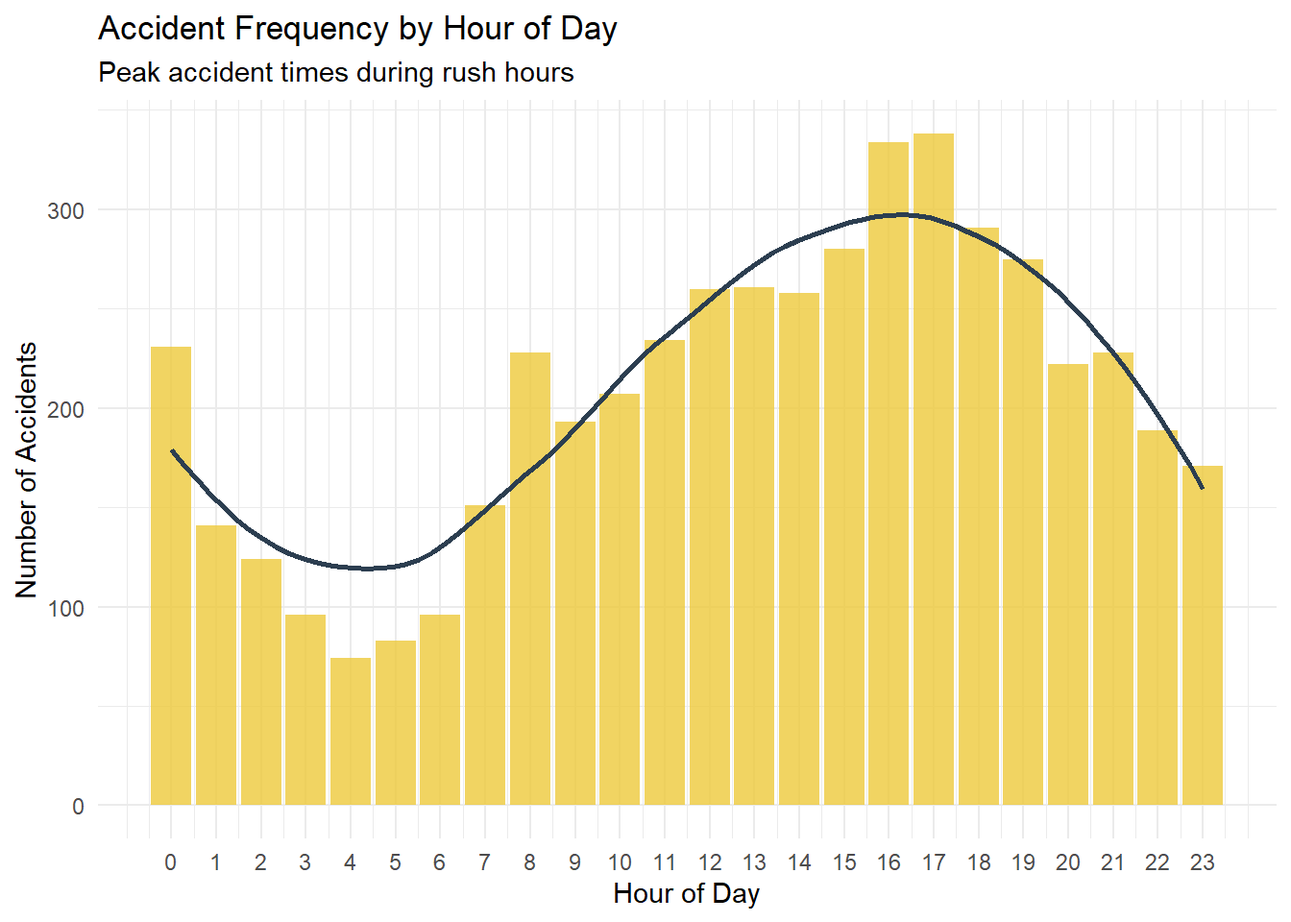
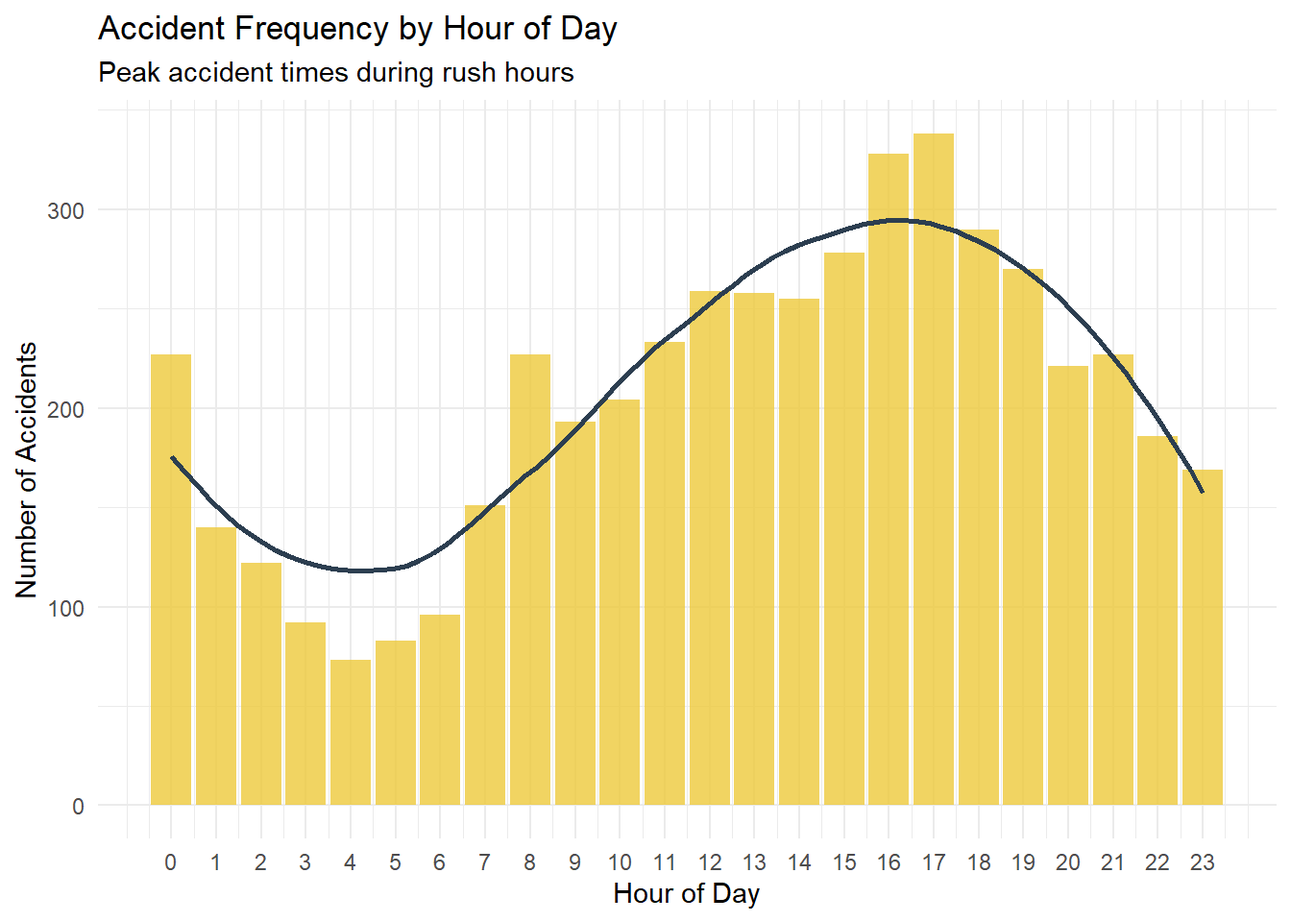
final changes fixes

diff --git a/Final.html b/Final.html
@@ -116,8 +116,8 @@ pre > code.sourceCode > span > a:first-child::before { text-decoration: underlin
 </section>
 <section id="import-data-and-processing" class="level2">
 <h2 class="anchored" data-anchor-id="import-data-and-processing">Import data and processing</h2>
-<section id="import-july-2025-taxi-data" class="level3">
-<h3 class="anchored" data-anchor-id="import-july-2025-taxi-data">Import July 2025 taxi data</h3>
+<section id="import-july-2024-taxi-data" class="level3">
+<h3 class="anchored" data-anchor-id="import-july-2024-taxi-data">Import July 2024 taxi data</h3>
 <div class="cell">
 <div class="code-copy-outer-scaffold"><div class="sourceCode cell-code" id="cb1"><pre class="sourceCode r code-with-copy"><code class="sourceCode r"><span id="cb1-1"><a href="#cb1-1" aria-hidden="true" tabindex="-1"></a>taxi_url <span class="ot">&lt;-</span> <span class="st">"https://d37ci6vzurychx.cloudfront.net/trip-data/yellow_tripdata_2024-07.parquet"</span></span>
 <span id="cb1-2"><a href="#cb1-2" aria-hidden="true" tabindex="-1"></a></span>
@@ -289,9 +289,9 @@ Weather Data Import Summary:</code></pre>
 <pre><code>Date range: 2024-07-01 to 2024-07-31 </code></pre>
 </div>
 <div class="code-copy-outer-scaffold"><div class="sourceCode cell-code" id="cb25"><pre class="sourceCode r code-with-copy"><code class="sourceCode r"><span id="cb25-1"><a href="#cb25-1" aria-hidden="true" tabindex="-1"></a><span class="fu">cat</span>(<span class="st">"Temperature range:"</span>, <span class="fu">round</span>(<span class="fu">min</span>(weather_data<span class="sc">$</span>temperature, <span class="at">na.rm =</span> <span class="cn">TRUE</span>), <span class="dv">1</span>), </span>
-<span id="cb25-2"><a href="#cb25-2" aria-hidden="true" tabindex="-1"></a>    <span class="st">"to"</span>, <span class="fu">round</span>(<span class="fu">max</span>(weather_data<span class="sc">$</span>temperature, <span class="at">na.rm =</span> <span class="cn">TRUE</span>), <span class="dv">1</span>), <span class="st">"°C</span><span class="sc">\n</span><span class="st">"</span>)</span></code></pre></div><button title="Copy to Clipboard" class="code-copy-button"><i class="bi"></i></button></div>
+<span id="cb25-2"><a href="#cb25-2" aria-hidden="true" tabindex="-1"></a>    <span class="st">"to"</span>, <span class="fu">round</span>(<span class="fu">max</span>(weather_data<span class="sc">$</span>temperature, <span class="at">na.rm =</span> <span class="cn">TRUE</span>), <span class="dv">1</span>), <span class="st">"Celcius</span><span class="sc">\n</span><span class="st">"</span>)</span></code></pre></div><button title="Copy to Clipboard" class="code-copy-button"><i class="bi"></i></button></div>
 <div class="cell-output cell-output-stdout">
-<pre><code>Temperature range: 16.3 to 34.5 °C</code></pre>
+<pre><code>Temperature range: 16.3 to 34.5 Celcius</code></pre>
 </div>
 <div class="code-copy-outer-scaffold"><div class="sourceCode cell-code" id="cb27"><pre class="sourceCode r code-with-copy"><code class="sourceCode r"><span id="cb27-1"><a href="#cb27-1" aria-hidden="true" tabindex="-1"></a><span class="fu">cat</span>(<span class="st">"Days with precipitation:"</span>, <span class="fu">sum</span>(weather_data<span class="sc">$</span>precipitation <span class="sc">&gt;</span> <span class="dv">0</span>, <span class="at">na.rm =</span> <span class="cn">TRUE</span>), <span class="st">"</span><span class="sc">\n\n</span><span class="st">"</span>)</span></code></pre></div><button title="Copy to Clipboard" class="code-copy-button"><i class="bi"></i></button></div>
 <div class="cell-output cell-output-stdout">
@@ -347,7 +347,7 @@ Weather Data Import Summary:</code></pre>
 <span id="cb33-26"><a href="#cb33-26" aria-hidden="true" tabindex="-1"></a>total_amount <span class="sc">&gt;</span> <span class="dv">0</span></span>
 <span id="cb33-27"><a href="#cb33-27" aria-hidden="true" tabindex="-1"></a>) <span class="sc">%&gt;%</span></span>
 <span id="cb33-28"><a href="#cb33-28" aria-hidden="true" tabindex="-1"></a></span>
-<span id="cb33-29"><a href="#cb33-29" aria-hidden="true" tabindex="-1"></a><span class="co"># Remove duplicates (just in case)</span></span>
+<span id="cb33-29"><a href="#cb33-29" aria-hidden="true" tabindex="-1"></a><span class="co"># Remove duplicates</span></span>
 <span id="cb33-30"><a href="#cb33-30" aria-hidden="true" tabindex="-1"></a></span>
 <span id="cb33-31"><a href="#cb33-31" aria-hidden="true" tabindex="-1"></a><span class="fu">distinct</span>()</span>
 <span id="cb33-32"><a href="#cb33-32" aria-hidden="true" tabindex="-1"></a></span>
@@ -373,51 +373,39 @@ Weather Data Import Summary:</code></pre>
 <pre><code>Cleaning collision data...</code></pre>
 </div>
 <div class="code-copy-outer-scaffold"><div class="sourceCode cell-code" id="cb41"><pre class="sourceCode r code-with-copy"><code class="sourceCode r"><span id="cb41-1"><a href="#cb41-1" aria-hidden="true" tabindex="-1"></a>collision_clean <span class="ot">&lt;-</span> collision_data_jan <span class="sc">%&gt;%</span></span>
-<span id="cb41-2"><a href="#cb41-2" aria-hidden="true" tabindex="-1"></a></span>
-<span id="cb41-3"><a href="#cb41-3" aria-hidden="true" tabindex="-1"></a><span class="co"># Keep only relevant columns</span></span>
-<span id="cb41-4"><a href="#cb41-4" aria-hidden="true" tabindex="-1"></a></span>
-<span id="cb41-5"><a href="#cb41-5" aria-hidden="true" tabindex="-1"></a><span class="fu">select</span>(</span>
-<span id="cb41-6"><a href="#cb41-6" aria-hidden="true" tabindex="-1"></a>date, crash_time, borough, zip_code,</span>
-<span id="cb41-7"><a href="#cb41-7" aria-hidden="true" tabindex="-1"></a>on_street_name, cross_street_name,</span>
-<span id="cb41-8"><a href="#cb41-8" aria-hidden="true" tabindex="-1"></a>number_of_persons_injured, number_of_persons_killed,</span>
-<span id="cb41-9"><a href="#cb41-9" aria-hidden="true" tabindex="-1"></a>latitude, longitude</span>
-<span id="cb41-10"><a href="#cb41-10" aria-hidden="true" tabindex="-1"></a>) <span class="sc">%&gt;%</span></span>
-<span id="cb41-11"><a href="#cb41-11" aria-hidden="true" tabindex="-1"></a></span>
-<span id="cb41-12"><a href="#cb41-12" aria-hidden="true" tabindex="-1"></a><span class="co"># Remove invalid or incomplete records</span></span>
-<span id="cb41-13"><a href="#cb41-13" aria-hidden="true" tabindex="-1"></a></span>
-<span id="cb41-14"><a href="#cb41-14" aria-hidden="true" tabindex="-1"></a><span class="fu">filter</span>(</span>
-<span id="cb41-15"><a href="#cb41-15" aria-hidden="true" tabindex="-1"></a><span class="sc">!</span><span class="fu">is.na</span>(date),</span>
-<span id="cb41-16"><a href="#cb41-16" aria-hidden="true" tabindex="-1"></a><span class="sc">!</span><span class="fu">is.na</span>(crash_time),</span>
-<span id="cb41-17"><a href="#cb41-17" aria-hidden="true" tabindex="-1"></a><span class="sc">!</span><span class="fu">is.na</span>(latitude),</span>
-<span id="cb41-18"><a href="#cb41-18" aria-hidden="true" tabindex="-1"></a><span class="sc">!</span><span class="fu">is.na</span>(longitude),</span>
-<span id="cb41-19"><a href="#cb41-19" aria-hidden="true" tabindex="-1"></a>latitude <span class="sc">!=</span> <span class="dv">0</span> <span class="sc">&amp;</span> longitude <span class="sc">!=</span> <span class="dv">0</span></span>
-<span id="cb41-20"><a href="#cb41-20" aria-hidden="true" tabindex="-1"></a>) <span class="sc">%&gt;%</span></span>
-<span id="cb41-21"><a href="#cb41-21" aria-hidden="true" tabindex="-1"></a></span>
-<span id="cb41-22"><a href="#cb41-22" aria-hidden="true" tabindex="-1"></a><span class="co"># Clean up borough names</span></span>
+<span id="cb41-2"><a href="#cb41-2" aria-hidden="true" tabindex="-1"></a>  <span class="fu">select</span>(</span>
+<span id="cb41-3"><a href="#cb41-3" aria-hidden="true" tabindex="-1"></a>    date, crash_time, borough, zip_code,</span>
+<span id="cb41-4"><a href="#cb41-4" aria-hidden="true" tabindex="-1"></a>    on_street_name, cross_street_name,</span>
+<span id="cb41-5"><a href="#cb41-5" aria-hidden="true" tabindex="-1"></a>    number_of_persons_injured, number_of_persons_killed,</span>
+<span id="cb41-6"><a href="#cb41-6" aria-hidden="true" tabindex="-1"></a>    latitude, longitude</span>
+<span id="cb41-7"><a href="#cb41-7" aria-hidden="true" tabindex="-1"></a>  ) <span class="sc">%&gt;%</span></span>
+<span id="cb41-8"><a href="#cb41-8" aria-hidden="true" tabindex="-1"></a>  <span class="fu">filter</span>(</span>
+<span id="cb41-9"><a href="#cb41-9" aria-hidden="true" tabindex="-1"></a>    <span class="sc">!</span><span class="fu">is.na</span>(date),</span>
+<span id="cb41-10"><a href="#cb41-10" aria-hidden="true" tabindex="-1"></a>    <span class="sc">!</span><span class="fu">is.na</span>(crash_time),</span>
+<span id="cb41-11"><a href="#cb41-11" aria-hidden="true" tabindex="-1"></a>    <span class="sc">!</span><span class="fu">is.na</span>(latitude),</span>
+<span id="cb41-12"><a href="#cb41-12" aria-hidden="true" tabindex="-1"></a>    <span class="sc">!</span><span class="fu">is.na</span>(longitude),</span>
+<span id="cb41-13"><a href="#cb41-13" aria-hidden="true" tabindex="-1"></a>    latitude <span class="sc">!=</span> <span class="dv">0</span> <span class="sc">&amp;</span> longitude <span class="sc">!=</span> <span class="dv">0</span></span>
+<span id="cb41-14"><a href="#cb41-14" aria-hidden="true" tabindex="-1"></a>  ) <span class="sc">%&gt;%</span></span>
+<span id="cb41-15"><a href="#cb41-15" aria-hidden="true" tabindex="-1"></a>  <span class="fu">mutate</span>(</span>
+<span id="cb41-16"><a href="#cb41-16" aria-hidden="true" tabindex="-1"></a>    <span class="at">borough =</span> <span class="fu">str_to_title</span>(<span class="fu">trimws</span>(borough)),</span>
+<span id="cb41-17"><a href="#cb41-17" aria-hidden="true" tabindex="-1"></a>    <span class="at">number_of_persons_injured =</span> <span class="fu">coalesce</span>(number_of_persons_injured, <span class="dv">0</span>),</span>
+<span id="cb41-18"><a href="#cb41-18" aria-hidden="true" tabindex="-1"></a>    <span class="at">number_of_persons_killed =</span> <span class="fu">coalesce</span>(number_of_persons_killed, <span class="dv">0</span>),</span>
+<span id="cb41-19"><a href="#cb41-19" aria-hidden="true" tabindex="-1"></a>    <span class="at">hour =</span> <span class="fu">hour</span>(crash_time)</span>
+<span id="cb41-20"><a href="#cb41-20" aria-hidden="true" tabindex="-1"></a>  ) <span class="sc">%&gt;%</span></span>
+<span id="cb41-21"><a href="#cb41-21" aria-hidden="true" tabindex="-1"></a>  <span class="fu">drop_na</span>(borough) <span class="sc">%&gt;%</span></span>
+<span id="cb41-22"><a href="#cb41-22" aria-hidden="true" tabindex="-1"></a>  <span class="fu">distinct</span>()</span>
 <span id="cb41-23"><a href="#cb41-23" aria-hidden="true" tabindex="-1"></a></span>
-<span id="cb41-24"><a href="#cb41-24" aria-hidden="true" tabindex="-1"></a><span class="fu">mutate</span>(</span>
-<span id="cb41-25"><a href="#cb41-25" aria-hidden="true" tabindex="-1"></a><span class="at">borough =</span> <span class="fu">str_to_title</span>(<span class="fu">trimws</span>(borough)),</span>
-<span id="cb41-26"><a href="#cb41-26" aria-hidden="true" tabindex="-1"></a><span class="at">number_of_persons_injured =</span> <span class="fu">coalesce</span>(number_of_persons_injured, <span class="dv">0</span>),</span>
-<span id="cb41-27"><a href="#cb41-27" aria-hidden="true" tabindex="-1"></a><span class="at">number_of_persons_killed =</span> <span class="fu">coalesce</span>(number_of_persons_killed, <span class="dv">0</span>),</span>
-<span id="cb41-28"><a href="#cb41-28" aria-hidden="true" tabindex="-1"></a><span class="at">hour =</span> <span class="fu">hour</span>(crash_time)</span>
-<span id="cb41-29"><a href="#cb41-29" aria-hidden="true" tabindex="-1"></a>) <span class="sc">%&gt;%</span></span>
-<span id="cb41-30"><a href="#cb41-30" aria-hidden="true" tabindex="-1"></a>  <span class="fu">drop_na</span>(borough) <span class="sc">%&gt;%</span></span>
-<span id="cb41-31"><a href="#cb41-31" aria-hidden="true" tabindex="-1"></a><span class="fu">distinct</span>()</span>
-<span id="cb41-32"><a href="#cb41-32" aria-hidden="true" tabindex="-1"></a></span>
-<span id="cb41-33"><a href="#cb41-33" aria-hidden="true" tabindex="-1"></a>collision_clean <span class="ot">&lt;-</span> collision_data_jan <span class="sc">%&gt;%</span></span>
-<span id="cb41-34"><a href="#cb41-34" aria-hidden="true" tabindex="-1"></a>  <span class="fu">drop_na</span>(borough, crash_time, number_of_persons_injured)</span>
-<span id="cb41-35"><a href="#cb41-35" aria-hidden="true" tabindex="-1"></a></span>
-<span id="cb41-36"><a href="#cb41-36" aria-hidden="true" tabindex="-1"></a><span class="fu">cat</span>(<span class="st">"Collision data cleaned successfully!</span><span class="sc">\n</span><span class="st">"</span>)</span></code></pre></div><button title="Copy to Clipboard" class="code-copy-button"><i class="bi"></i></button></div>
+<span id="cb41-24"><a href="#cb41-24" aria-hidden="true" tabindex="-1"></a><span class="fu">cat</span>(<span class="st">"Collision data cleaned successfully!</span><span class="sc">\n</span><span class="st">"</span>)</span></code></pre></div><button title="Copy to Clipboard" class="code-copy-button"><i class="bi"></i></button></div>
 <div class="cell-output cell-output-stdout">
 <pre><code>Collision data cleaned successfully!</code></pre>
 </div>
 <div class="code-copy-outer-scaffold"><div class="sourceCode cell-code" id="cb43"><pre class="sourceCode r code-with-copy"><code class="sourceCode r"><span id="cb43-1"><a href="#cb43-1" aria-hidden="true" tabindex="-1"></a><span class="fu">cat</span>(<span class="st">"Records after cleaning:"</span>, <span class="fu">nrow</span>(collision_clean), <span class="st">"</span><span class="sc">\n</span><span class="st">"</span>)</span></code></pre></div><button title="Copy to Clipboard" class="code-copy-button"><i class="bi"></i></button></div>
 <div class="cell-output cell-output-stdout">
-<pre><code>Records after cleaning: 4965 </code></pre>
+<pre><code>Records after cleaning: 4920 </code></pre>
 </div>
 <div class="code-copy-outer-scaffold"><div class="sourceCode cell-code" id="cb45"><pre class="sourceCode r code-with-copy"><code class="sourceCode r"><span id="cb45-1"><a href="#cb45-1" aria-hidden="true" tabindex="-1"></a><span class="fu">cat</span>(<span class="st">"Unique boroughs:"</span>, <span class="fu">paste</span>(<span class="fu">unique</span>(collision_clean<span class="sc">$</span>borough), <span class="at">collapse =</span> <span class="st">", "</span>), <span class="st">"</span><span class="sc">\n\n</span><span class="st">"</span>)</span></code></pre></div><button title="Copy to Clipboard" class="code-copy-button"><i class="bi"></i></button></div>
 <div class="cell-output cell-output-stdout">
-<pre><code>Unique boroughs: BROOKLYN, STATEN ISLAND, QUEENS, MANHATTAN, BRONX </code></pre>
+<pre><code>Unique boroughs: Staten Island, Brooklyn, Queens, Manhattan, Bronx </code></pre>
 </div>
 </div>
 </section>
@@ -429,26 +417,17 @@ Weather Data Import Summary:</code></pre>
 <pre><code>Cleaning weather data...</code></pre>
 </div>
 <div class="code-copy-outer-scaffold"><div class="sourceCode cell-code" id="cb49"><pre class="sourceCode r code-with-copy"><code class="sourceCode r"><span id="cb49-1"><a href="#cb49-1" aria-hidden="true" tabindex="-1"></a>weather_clean <span class="ot">&lt;-</span> weather_data <span class="sc">%&gt;%</span></span>
-<span id="cb49-2"><a href="#cb49-2" aria-hidden="true" tabindex="-1"></a></span>
-<span id="cb49-3"><a href="#cb49-3" aria-hidden="true" tabindex="-1"></a><span class="co"># Remove missing or nonsensical readings</span></span>
-<span id="cb49-4"><a href="#cb49-4" aria-hidden="true" tabindex="-1"></a></span>
-<span id="cb49-5"><a href="#cb49-5" aria-hidden="true" tabindex="-1"></a><span class="fu">filter</span>(<span class="sc">!</span><span class="fu">is.na</span>(datetime), <span class="sc">!</span><span class="fu">is.na</span>(temperature)) <span class="sc">%&gt;%</span></span>
-<span id="cb49-6"><a href="#cb49-6" aria-hidden="true" tabindex="-1"></a><span class="fu">filter</span>(temperature <span class="sc">&gt;</span> <span class="sc">-</span><span class="dv">30</span> <span class="sc">&amp;</span> temperature <span class="sc">&lt;</span> <span class="dv">50</span>) <span class="sc">%&gt;%</span>  <span class="co"># reasonable NYC range</span></span>
-<span id="cb49-7"><a href="#cb49-7" aria-hidden="true" tabindex="-1"></a><span class="fu">mutate</span>(</span>
-<span id="cb49-8"><a href="#cb49-8" aria-hidden="true" tabindex="-1"></a><span class="at">weather_date =</span> <span class="fu">as.Date</span>(datetime),</span>
-<span id="cb49-9"><a href="#cb49-9" aria-hidden="true" tabindex="-1"></a><span class="at">weather_hour =</span> <span class="fu">hour</span>(datetime),</span>
-<span id="cb49-10"><a href="#cb49-10" aria-hidden="true" tabindex="-1"></a><span class="at">precipitation =</span> <span class="fu">ifelse</span>(<span class="fu">is.na</span>(precipitation), <span class="dv">0</span>, precipitation),</span>
-<span id="cb49-11"><a href="#cb49-11" aria-hidden="true" tabindex="-1"></a><span class="at">rain =</span> <span class="fu">ifelse</span>(<span class="fu">is.na</span>(rain), <span class="dv">0</span>, rain)</span>
-<span id="cb49-12"><a href="#cb49-12" aria-hidden="true" tabindex="-1"></a>) <span class="sc">%&gt;%</span></span>
-<span id="cb49-13"><a href="#cb49-13" aria-hidden="true" tabindex="-1"></a></span>
-<span id="cb49-14"><a href="#cb49-14" aria-hidden="true" tabindex="-1"></a><span class="co"># Deduplicate hourly records</span></span>
-<span id="cb49-15"><a href="#cb49-15" aria-hidden="true" tabindex="-1"></a></span>
-<span id="cb49-16"><a href="#cb49-16" aria-hidden="true" tabindex="-1"></a><span class="fu">distinct</span>(weather_date, weather_hour, <span class="at">.keep_all =</span> <span class="cn">TRUE</span>)</span>
-<span id="cb49-17"><a href="#cb49-17" aria-hidden="true" tabindex="-1"></a></span>
-<span id="cb49-18"><a href="#cb49-18" aria-hidden="true" tabindex="-1"></a>wether_clean <span class="ot">&lt;-</span> weather_data <span class="sc">%&gt;%</span></span>
-<span id="cb49-19"><a href="#cb49-19" aria-hidden="true" tabindex="-1"></a>  <span class="fu">drop_na</span>(datetime, temperature, precipitation)</span>
-<span id="cb49-20"><a href="#cb49-20" aria-hidden="true" tabindex="-1"></a></span>
-<span id="cb49-21"><a href="#cb49-21" aria-hidden="true" tabindex="-1"></a><span class="fu">cat</span>(<span class="st">"Weather data cleaned successfully!</span><span class="sc">\n</span><span class="st">"</span>)</span></code></pre></div><button title="Copy to Clipboard" class="code-copy-button"><i class="bi"></i></button></div>
+<span id="cb49-2"><a href="#cb49-2" aria-hidden="true" tabindex="-1"></a>  <span class="fu">filter</span>(<span class="sc">!</span><span class="fu">is.na</span>(datetime), <span class="sc">!</span><span class="fu">is.na</span>(temperature)) <span class="sc">%&gt;%</span></span>
+<span id="cb49-3"><a href="#cb49-3" aria-hidden="true" tabindex="-1"></a>  <span class="fu">filter</span>(temperature <span class="sc">&gt;</span> <span class="sc">-</span><span class="dv">30</span> <span class="sc">&amp;</span> temperature <span class="sc">&lt;</span> <span class="dv">50</span>) <span class="sc">%&gt;%</span></span>
+<span id="cb49-4"><a href="#cb49-4" aria-hidden="true" tabindex="-1"></a>  <span class="fu">mutate</span>(</span>
+<span id="cb49-5"><a href="#cb49-5" aria-hidden="true" tabindex="-1"></a>    <span class="at">weather_date =</span> <span class="fu">as.Date</span>(datetime),</span>
+<span id="cb49-6"><a href="#cb49-6" aria-hidden="true" tabindex="-1"></a>    <span class="at">weather_hour =</span> <span class="fu">hour</span>(datetime),</span>
+<span id="cb49-7"><a href="#cb49-7" aria-hidden="true" tabindex="-1"></a>    <span class="at">precipitation =</span> <span class="fu">coalesce</span>(precipitation, <span class="dv">0</span>),</span>
+<span id="cb49-8"><a href="#cb49-8" aria-hidden="true" tabindex="-1"></a>    <span class="at">rain =</span> <span class="fu">coalesce</span>(rain, <span class="dv">0</span>)</span>
+<span id="cb49-9"><a href="#cb49-9" aria-hidden="true" tabindex="-1"></a>  ) <span class="sc">%&gt;%</span></span>
+<span id="cb49-10"><a href="#cb49-10" aria-hidden="true" tabindex="-1"></a>  <span class="fu">distinct</span>(weather_date, weather_hour, <span class="at">.keep_all =</span> <span class="cn">TRUE</span>)</span>
+<span id="cb49-11"><a href="#cb49-11" aria-hidden="true" tabindex="-1"></a></span>
+<span id="cb49-12"><a href="#cb49-12" aria-hidden="true" tabindex="-1"></a><span class="fu">cat</span>(<span class="st">"Weather data cleaned successfully!</span><span class="sc">\n</span><span class="st">"</span>)</span></code></pre></div><button title="Copy to Clipboard" class="code-copy-button"><i class="bi"></i></button></div>
 <div class="cell-output cell-output-stdout">
 <pre><code>Weather data cleaned successfully!</code></pre>
 </div>
@@ -457,8 +436,8 @@ Weather Data Import Summary:</code></pre>
 <pre><code>Records after cleaning: 744 </code></pre>
 </div>
 <div class="code-copy-outer-scaffold"><div class="sourceCode cell-code" id="cb53"><pre class="sourceCode r code-with-copy"><code class="sourceCode r"><span id="cb53-1"><a href="#cb53-1" aria-hidden="true" tabindex="-1"></a><span class="fu">cat</span>(<span class="st">"Temperature range:"</span>,</span>
-<span id="cb53-2"><a href="#cb53-2" aria-hidden="true" tabindex="-1"></a><span class="fu">round</span>(<span class="fu">min</span>(weather_clean<span class="sc">$</span>temperature, <span class="at">na.rm =</span> <span class="cn">TRUE</span>), <span class="dv">1</span>), <span class="st">"to"</span>,</span>
-<span id="cb53-3"><a href="#cb53-3" aria-hidden="true" tabindex="-1"></a><span class="fu">round</span>(<span class="fu">max</span>(weather_clean<span class="sc">$</span>temperature, <span class="at">na.rm =</span> <span class="cn">TRUE</span>), <span class="dv">1</span>), <span class="st">"°C</span><span class="sc">\n\n</span><span class="st">"</span>)</span></code></pre></div><button title="Copy to Clipboard" class="code-copy-button"><i class="bi"></i></button></div>
+<span id="cb53-2"><a href="#cb53-2" aria-hidden="true" tabindex="-1"></a>    <span class="fu">round</span>(<span class="fu">min</span>(weather_clean<span class="sc">$</span>temperature, <span class="at">na.rm =</span> <span class="cn">TRUE</span>), <span class="dv">1</span>), <span class="st">"to"</span>,</span>
+<span id="cb53-3"><a href="#cb53-3" aria-hidden="true" tabindex="-1"></a>    <span class="fu">round</span>(<span class="fu">max</span>(weather_clean<span class="sc">$</span>temperature, <span class="at">na.rm =</span> <span class="cn">TRUE</span>), <span class="dv">1</span>), <span class="st">"°C</span><span class="sc">\n\n</span><span class="st">"</span>)</span></code></pre></div><button title="Copy to Clipboard" class="code-copy-button"><i class="bi"></i></button></div>
 <div class="cell-output cell-output-stdout">
 <pre><code>Temperature range: 16.3 to 34.5 °C</code></pre>
 </div>
@@ -584,13 +563,13 @@ Weather Data Import Summary:</code></pre>
  Mean   : 95811   Mean   :16.51     Mean   :3.608     Mean   :2762321  
  3rd Qu.:106645   3rd Qu.:17.06     3rd Qu.:3.866     3rd Qu.:3071619  
  Max.   :123940   Max.   :18.29     Max.   :4.547     Max.   :3489869  
- total_crashes   total_injuries  avg_temperature total_precipitation
- Min.   :  0.0   Min.   :  0.0   Min.   :21.52   Min.   : 0.000     
- 1st Qu.:157.5   1st Qu.: 84.0   1st Qu.:24.13   1st Qu.: 0.000     
- Median :165.0   Median : 92.0   Median :25.10   Median : 0.900     
- Mean   :160.2   Mean   : 92.0   Mean   :25.29   Mean   : 4.484     
- 3rd Qu.:177.5   3rd Qu.: 99.5   3rd Qu.:26.87   3rd Qu.: 4.150     
- Max.   :193.0   Max.   :134.0   Max.   :28.50   Max.   :35.400     </code></pre>
+ total_crashes   total_injuries   avg_temperature total_precipitation
+ Min.   :  0.0   Min.   :  0.00   Min.   :21.52   Min.   : 0.000     
+ 1st Qu.:155.0   1st Qu.: 84.00   1st Qu.:24.13   1st Qu.: 0.000     
+ Median :163.0   Median : 91.00   Median :25.10   Median : 0.900     
+ Mean   :158.7   Mean   : 91.03   Mean   :25.29   Mean   : 4.484     
+ 3rd Qu.:176.5   3rd Qu.: 99.00   3rd Qu.:26.87   3rd Qu.: 4.150     
+ Max.   :191.0   Max.   :134.00   Max.   :28.50   Max.   :35.400     </code></pre>
 </div>
 <div class="code-copy-outer-scaffold"><div class="sourceCode cell-code" id="cb67"><pre class="sourceCode r code-with-copy"><code class="sourceCode r"><span id="cb67-1"><a href="#cb67-1" aria-hidden="true" tabindex="-1"></a><span class="co"># Key insights</span></span>
 <span id="cb67-2"><a href="#cb67-2" aria-hidden="true" tabindex="-1"></a>kpis <span class="ot">&lt;-</span> combined_daily <span class="sc">%&gt;%</span></span>
@@ -614,7 +593,7 @@ Key Performance Indicators:</code></pre>
 <pre><code># A tibble: 1 × 7
   total_days avg_daily_trips avg_daily_crashes total_revenue
        &lt;int&gt;           &lt;dbl&gt;             &lt;dbl&gt;         &lt;dbl&gt;
-1         31          95811.              160.     85631940.
+1         31          95811.              159.     85631940.
 # ℹ 3 more variables: crash_rate_per_1000_trips &lt;dbl&gt;, rainy_day_crashes &lt;dbl&gt;,
 #   dry_day_crashes &lt;dbl&gt;</code></pre>
 </div>
@@ -666,7 +645,7 @@ Key Performance Indicators:</code></pre>
 <section id="vehicle-collisions" class="level3">
 <h3 class="anchored" data-anchor-id="vehicle-collisions">Vehicle collisions</h3>
 <div class="cell">
-<div class="code-copy-outer-scaffold"><div class="sourceCode cell-code" id="cb73"><pre class="sourceCode r code-with-copy"><code class="sourceCode r"><span id="cb73-1"><a href="#cb73-1" aria-hidden="true" tabindex="-1"></a><span class="co"># Line Plot of Average Injuries per Hour</span></span>
+<div class="code-copy-outer-scaffold"><div class="sourceCode cell-code" id="cb73"><pre class="sourceCode r code-with-copy"><code class="sourceCode r"><span id="cb73-1"><a href="#cb73-1" aria-hidden="true" tabindex="-1"></a><span class="co"># Line Plot of Average injuries per hour</span></span>
 <span id="cb73-2"><a href="#cb73-2" aria-hidden="true" tabindex="-1"></a>daily_crashes <span class="ot">&lt;-</span> collision_data_jan <span class="sc">%&gt;%</span></span>
 <span id="cb73-3"><a href="#cb73-3" aria-hidden="true" tabindex="-1"></a>  <span class="fu">mutate</span>(<span class="at">hour =</span> <span class="fu">hour</span>(crash_time)) <span class="sc">%&gt;%</span></span>
 <span id="cb73-4"><a href="#cb73-4" aria-hidden="true" tabindex="-1"></a>  <span class="fu">group_by</span>(hour) <span class="sc">%&gt;%</span></span>
@@ -782,19 +761,19 @@ Sample location data:</code></pre>
 <span id="cb83-3"><a href="#cb83-3" aria-hidden="true" tabindex="-1"></a>  <span class="fu">head</span>(<span class="dv">10</span>) <span class="sc">%&gt;%</span> </span>
 <span id="cb83-4"><a href="#cb83-4" aria-hidden="true" tabindex="-1"></a>  <span class="fu">print</span>()</span></code></pre></div><button title="Copy to Clipboard" class="code-copy-button"><i class="bi"></i></button></div>
 <div class="cell-output cell-output-stdout">
-<pre><code># A tibble: 10 × 5
-   borough       on_street_name   cross_street_name off_street_name     zip_code
-   &lt;chr&gt;         &lt;chr&gt;            &lt;chr&gt;             &lt;chr&gt;                  &lt;dbl&gt;
- 1 BROOKLYN      3 Avenue         17 street         &lt;NA&gt;                   11215
- 2 STATEN ISLAND AMBOY ROAD       JOLINE AVENUE     &lt;NA&gt;                   10307
- 3 BROOKLYN      &lt;NA&gt;             &lt;NA&gt;              2926      WEST 25 …    11224
- 4 BROOKLYN      BAY RIDGE AVENUE VISTA PLACE       &lt;NA&gt;                   11220
- 5 STATEN ISLAND ARTHUR KILL ROAD CLARKE AVENUE     &lt;NA&gt;                   10306
- 6 QUEENS        &lt;NA&gt;             &lt;NA&gt;              1021      BEACH 21…    11691
- 7 MANHATTAN     COLUMBUS AVENUE  WEST 83 STREET    &lt;NA&gt;                   10024
- 8 QUEENS        JACKSON AVENUE   PEARSON STREET    &lt;NA&gt;                   11101
- 9 QUEENS        84 STREET        32 AVENUE         &lt;NA&gt;                   11370
-10 MANHATTAN     &lt;NA&gt;             &lt;NA&gt;              30        KENMARE …    10012</code></pre>
+<pre><code># A tibble: 10 × 4
+   borough       on_street_name   cross_street_name zip_code
+   &lt;chr&gt;         &lt;chr&gt;            &lt;chr&gt;                &lt;dbl&gt;
+ 1 Staten Island AMBOY ROAD       JOLINE AVENUE        10307
+ 2 Brooklyn      &lt;NA&gt;             &lt;NA&gt;                 11224
+ 3 Brooklyn      BAY RIDGE AVENUE VISTA PLACE          11220
+ 4 Staten Island ARTHUR KILL ROAD CLARKE AVENUE        10306
+ 5 Queens        &lt;NA&gt;             &lt;NA&gt;                 11691
+ 6 Manhattan     COLUMBUS AVENUE  WEST 83 STREET       10024
+ 7 Queens        JACKSON AVENUE   PEARSON STREET       11101
+ 8 Queens        84 STREET        32 AVENUE            11370
+ 9 Manhattan     &lt;NA&gt;             &lt;NA&gt;                 10012
+10 Brooklyn      &lt;NA&gt;             &lt;NA&gt;                 11208</code></pre>
 </div>
 </div>
 <div class="cell">
